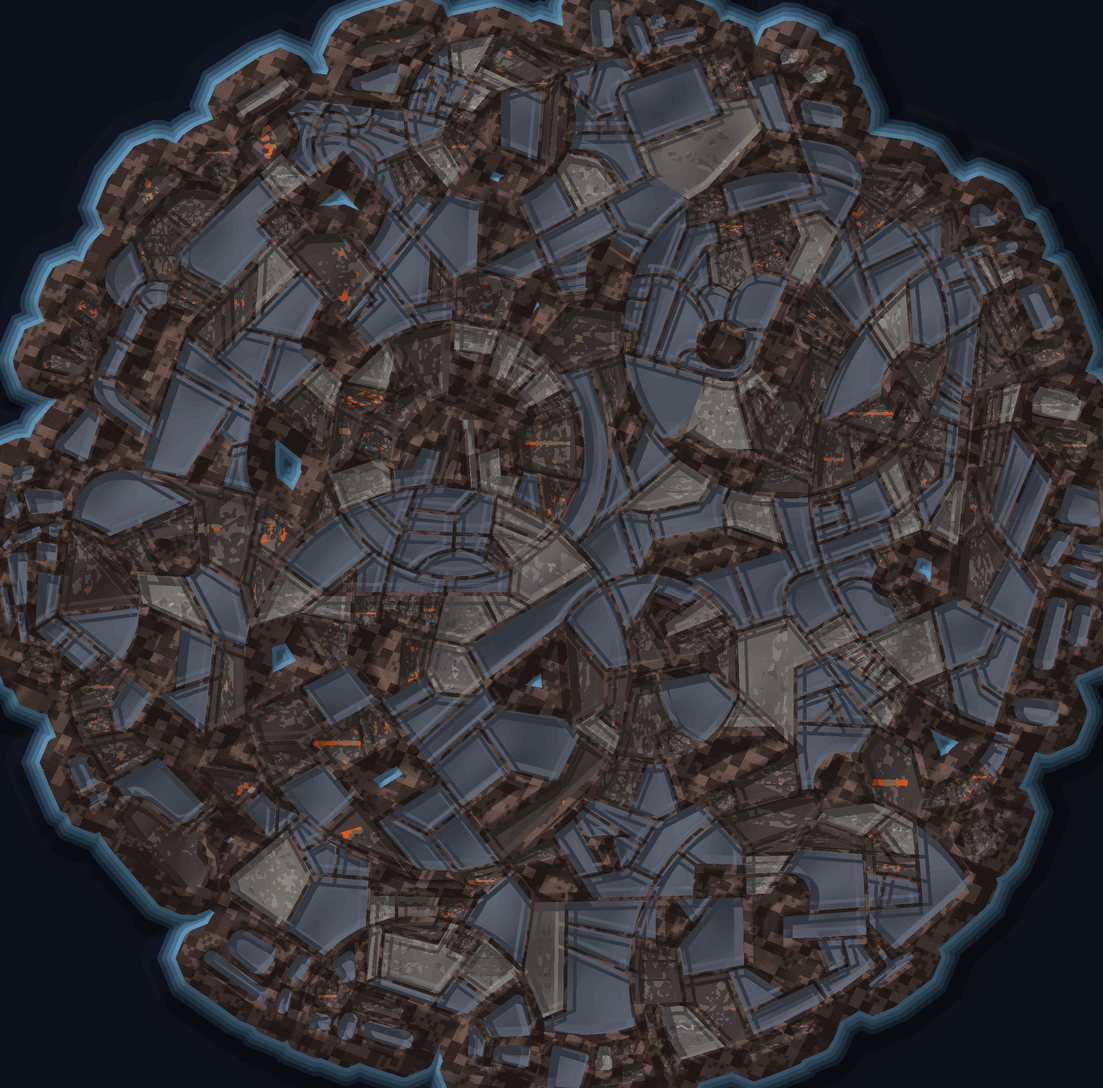
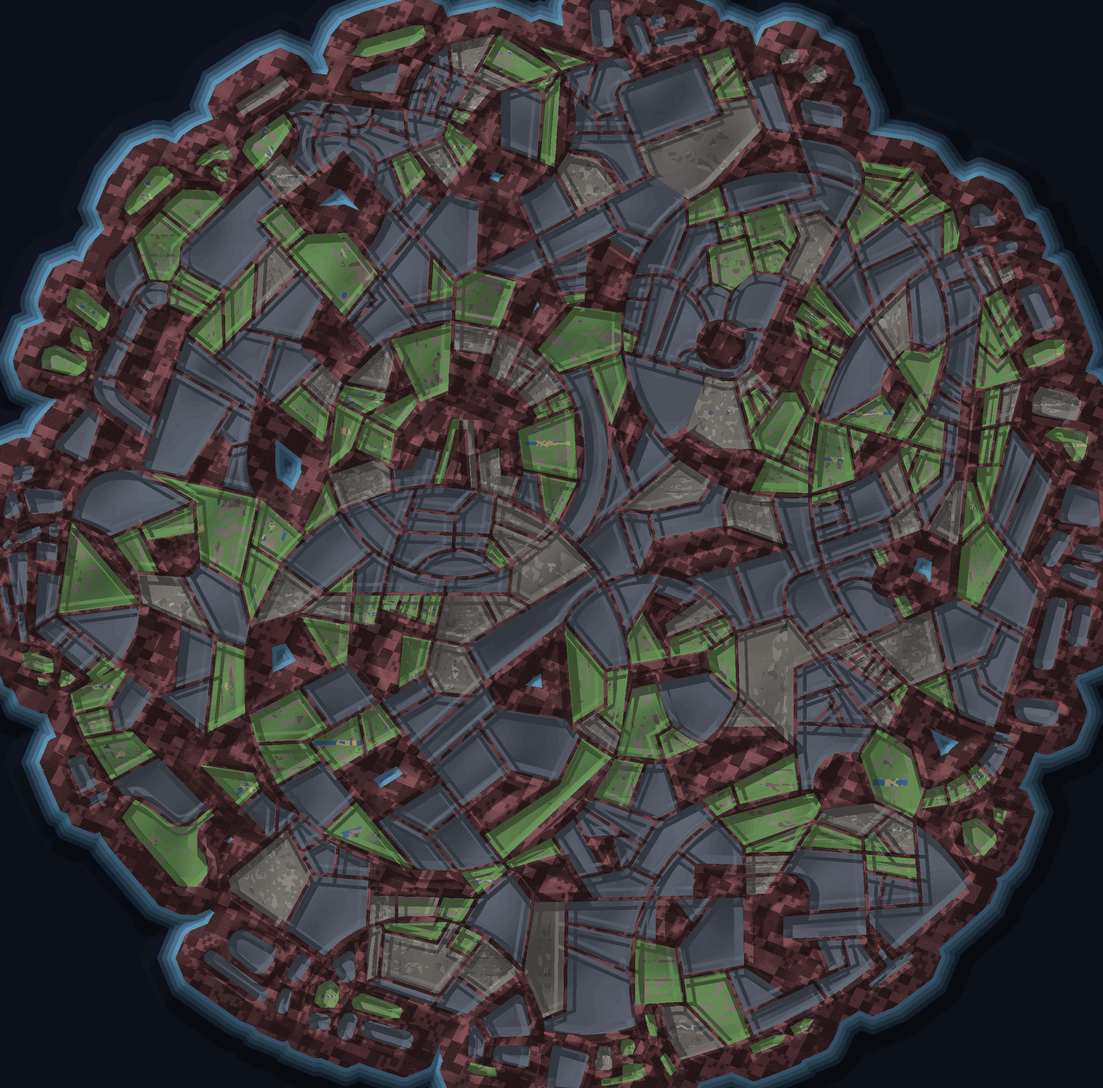
sky zones: identities locked + EMBER_CRYSTAL biome — Emberfall = red-gem crystal empire, never volcanic
Owner (2026-08-31): the three sky continents (the last without authored
fields) get locked identities BEFORE their fields are built —
docs/maps/SKY-ZONES-DESIGN.md:
- HS1 Aeropolis = the Castle in the Sky: abandoned leafy utopia, birds,
  overgrown Machu Picchu terraces, the one living airship dock.
- HS2 Emberfall = the Ember-Crystal Empire: LESS volcanic ('enough of that
  in the underworld; a volcano in the air makes no sense') — ember-RED
  CRYSTAL GEMS, fire power FROM the crystals, and the same crystals POWER
  the high-tech imperial war capital; 'red gems and dark scene walls, dark
  green military color'.
- HS3 Empyrea = the Frozen Pinnacle (SNOW already): white-gold ice city,
  highest, reached last; its hidden-tech deep canon stays under the ice.
War of the Sky Throne now reads on sight: fire-crystal empire vs frozen
pinnacle.

Wired for HS2: zone-registry biomeFamily VOLCANIC → EMBER_CRYSTAL
(+subtitle 'The Ember-Crystal Empire'), new 'ember' palette end-to-end —
schema PALETTES, BIOME_PALETTES [ember, ashen], thumb colors (dark
military-green ground, near-black cliffs, ROCK = ember-red crystal
188/52/48, water stays WATER — never lava), archetype mix (crystal-heavy
rock, dark scarps), preview3d tint, mosaic land color, worldfield fallback
map, LLM prompt note. UW zones keep VOLCANIC untouched.

Sweep 1,911 green, suites 6/6. HS2 mosaic re-bake running; the three sky
FIELDS remain to build (order: HS1 gateway first, then HS2+HS3 as the
[…]

diff --git a/map-service/maps/thumb.js b/map-service/maps/thumb.js
@@ -13,6 +13,7 @@ const PALETTE_RGB = {
   desert:   [[188, 162, 110], [120, 124, 62], [150, 128, 96], [70, 120, 140], [140, 116, 84], [204, 182, 136]],
   swamp:    [[74, 88, 58],  [44, 60, 38],  [96, 98, 86],   [46, 78, 92],  [80, 84, 66],   [128, 116, 84]],   // water = murky teal (was ground-green — deltas were invisible)
   ashen:    [[96, 94, 92],  [64, 66, 62],  [118, 114, 110], [70, 80, 92], [84, 80, 78],   [140, 132, 120]],
+  ember:    [[58, 66, 54],  [42, 52, 44],  [188, 52, 48],  [48, 70, 92],  [38, 40, 42],   [104, 98, 90]],   // HS2 Emberfall: dark military-green ground, near-black walls, ROCK = ember-red CRYSTAL (owner 2026-08-31: crystals, never lava — water stays water)
   sakura:   [[120, 140, 96], [172, 120, 140], [130, 124, 128], [96, 130, 160], [110, 102, 106], [168, 150, 130]],
 };
 const MARK = { GOLD_MINE: [230, 190, 60], WOOD_GROVE: [70, 150, 60], buildSpot: [225, 225, 235], atk: [220, 80, 70], def: [90, 140, 220], landmark: [242, 230, 190], lane: [210, 190, 140] };

diff --git a/map-service/maps/llm.js b/map-service/maps/llm.js
@@ -40,7 +40,7 @@ export function directivePrompt(budget = null) {
     "Reply with ONLY a single JSON object (no prose, no code fences) with these fields:\n" + lines.join("\n") +
     "\nPick the archetype/palette/landmark that best matches the directive's theme and mood. " +
     "High density = cluttered tactical map; waterLevel matters for river/marsh archetypes; " +
-    "volcanic palette renders water as lava." +
+    "volcanic palette renders water as lava; ember palette = dark military ground with ember-red CRYSTAL rocks (fire from gems, never lava)." +
     "\nOPTIONALLY add \"features\": [...] — up to 24 detail placements for precise composition. " +
     "Coords are normalized (-1..1, 0 = map center, +z = north); r/width are fractions of the map:\n" +
     '  {"kind":"riverBand","axis":"x"|"z","at":0.1-0.9,"width":0.02-0.3,"fords":1-3}  (axis "x" = river runs west-east across the map; "z" = runs south-north; "at" = where it sits, 0=south/west edge)\n' +

diff --git a/map-service/maps/schema.js b/map-service/maps/schema.js
@@ -4,7 +4,7 @@
 // boundary: any out-of-schema value from an LLM/user collapses to a safe default.
 
 export const ARCHETYPES = ["openSteppe", "forestMaze", "riverCrossing", "boxCanyon", "cliffTerraces", "marshCauseways", "ridgePasses"];
-export const PALETTES = ["verdant", "autumn", "volcanic", "tundra", "desert", "swamp", "ashen", "sakura"];
+export const PALETTES = ["verdant", "autumn", "volcanic", "tundra", "desert", "swamp", "ashen", "sakura", "ember"];   // ember = HS2 Emberfall fire-crystal ground (owner 2026-08-31: crystal gems, NOT magma)
 export const LANDMARKS = ["NONE", "STANDING_STONES", "RUINED_TOWER", "CRATER_LAKE", "ANCIENT_BRIDGE", "SHIPWRECK", "GIANT_SKULL", "OBELISK"];
 
 // terrain cell codes (u8 grid; walkability derives from these — grid is the truth, props are décor)

diff --git a/map-service/maps/mosaic.js b/map-service/maps/mosaic.js
@@ -64,7 +64,7 @@ const GREY = [72, 78, 88], GREY2 = [82, 88, 98];    // ungenerated fill (slight 
 // terrain board + POI markers). A little seeded speckle keeps big fills from looking dead-flat.
 const LAND = {
   TEMPERATE_FOREST: [70, 96, 62], TEMPERATE_GRASS: [96, 120, 72], SWAMP: [74, 88, 58],
-  VOLCANIC: [78, 62, 56], SNOW: [172, 180, 186], DESERT: [186, 162, 110], TUNDRA: [150, 160, 164],
+  VOLCANIC: [78, 62, 56], EMBER_CRYSTAL: [92, 58, 62], SNOW: [172, 180, 186], DESERT: [186, 162, 110], TUNDRA: [150, 160, 164],
 };
 export const landColor = (zone) => LAND[zoneBiomeFamily(zone)] || [86, 110, 74];
 const speckle = (base, x, y) => { const h = (((x * 73856093) ^ (y * 19349663)) >>> 0) % 17 - 8; return [Math.max(0, base[0] + h), Math.max(0, base[1] + h), Math.max(0, base[2] + h)]; };

diff --git a/map-service/maps/worldfield.js b/map-service/maps/worldfield.js
@@ -402,7 +402,7 @@ export function zoneBiomeFamily(zoneId) {
   if (!_zoneBiome) {
     _zoneBiome = new Map([["CGI", "TEMPERATE_GRASS"], ["KOL", "TEMPERATE_GRASS"], ["HUB", "TEMPERATE_GRASS"],
       ["ENT", "TEMPERATE_GRASS"], ["BUS", "SWAMP"], ["EDU", "TEMPERATE_FOREST"], ["HS1", "TEMPERATE_GRASS"],
-      ["HS2", "VOLCANIC"], ["HS3", "SNOW"], ["UW1", "SWAMP"], ["UW2", "VOLCANIC"], ["UW3", "VOLCANIC"]]);
+      ["HS2", "EMBER_CRYSTAL"], ["HS3", "SNOW"], ["UW1", "SWAMP"], ["UW2", "VOLCANIC"], ["UW3", "VOLCANIC"]]);
     try {
       const reg = JSON.parse(fs.readFileSync(path.join(dataRoot(), "zone-registry.json"), "utf8"));
       for (const z of reg.zones || []) if (z.zoneId && z.biomeFamily) _zoneBiome.set(String(z.zoneId), String(z.biomeFamily));

diff --git a/map-service/maps/preview3d.html b/map-service/maps/preview3d.html
@@ -80,7 +80,7 @@ const rng=()=>{_s=(_s+0x6D2B79F5)>>>0;let t=_s;t=Math.imul(t^(t>>>15),t|1);t^=t+
 const R=(x,y)=>x+(y-x)*rng();
 
 // per-palette ground tint (legacy fallback only — parity mode gets the real biome material set)
-const TINT={verdant:0xffffff,autumn:0xd9b978,volcanic:0x6a5a52,tundra:0xcdd6da,desert:0xd8c28a,swamp:0x8fa06a,sakura:0xe6c8d6}[p.palette]||0xffffff;
+const TINT={verdant:0xffffff,autumn:0xd9b978,volcanic:0x6a5a52,tundra:0xcdd6da,desert:0xd8c28a,swamp:0x8fa06a,sakura:0xe6c8d6,ember:0x9a6a66}[p.palette]||0xffffff;   // ember = slate + red-crystal cast (never lava)
 
 const scene=new THREE.Scene();
 let cam=new THREE.PerspectiveCamera(parity?50:45,innerWidth/innerHeight,1,S*6);

diff --git a/map-service/maps/archetypes.js b/map-service/maps/archetypes.js
@@ -68,6 +68,7 @@ const MIX = {
   sakura:   { forest: 0.80, rock: 0.12, water: 0.08, cliff: 0.00 },
   swamp:    { forest: 0.46, rock: 0.06, water: 0.48, cliff: 0.00 },
   volcanic: { forest: 0.06, rock: 0.56, water: 0.22, cliff: 0.16 },   // "water" renders as lava
+  ember:    { forest: 0.10, rock: 0.52, water: 0.14, cliff: 0.24 },   // HS2: rock = ember-red crystal outcrops, dark scarps — no lava in the sky
   ashen:    { forest: 0.14, rock: 0.50, water: 0.06, cliff: 0.30 },
   tundra:   { forest: 0.30, rock: 0.40, water: 0.08, cliff: 0.22 },
   desert:   { forest: 0.34, rock: 0.58, water: 0.08, cliff: 0.00 },   // brush + rock, rare oasis

diff --git a/map-service/maps/generate.js b/map-service/maps/generate.js
@@ -61,6 +61,10 @@ const BIOME_PALETTES = {
   DESERT: ["desert"],
   SNOW: ["tundra", "ashen"],
   VOLCANIC: ["volcanic", "ashen"],
+  // HS2 Emberfall (owner 2026-08-31: "less volcanic — no volcano in the air; ember-red CRYSTAL
+  // GEMS, fire power FROM the crystals" — the same crystals power the imperial tech): dark slate
+  // ground shot through with glowing ember crystal; ashen variant keeps ridge coherence.
+  EMBER_CRYSTAL: ["ember", "ashen"],
   SWAMP: ["swamp"],
 };
 export function biomePalette(biome, seed = 0) {

diff --git a/docs/maps/SKY-ZONES-DESIGN.md b/docs/maps/SKY-ZONES-DESIGN.md
@@ -1,0 +1,81 @@
+# THE SKY ZONES — HS1 / HS2 / HS3 DESIGN (owner-directed 2026-08-31)
+
+**Status:** the three sky continents have l3 parcel data (~13.7–14.1K parcels each) and baked
+biome-tint mosaics, but **NO authored macro fields** (`data/world-terrain/` has no HS1/HS2/HS3 —
+nor UW1) — no designed coastlines, roads, cities, castles, or heroParcels. They are the last
+continents without Arcadia-grade detail. This doc locks their identities BEFORE the fields are
+built, so nothing generic ships. Owner rule: **their maps must look DISTINCT.**
+
+## The three identities (owner-locked 2026-08-31)
+
+### HS1 · AEROPOLIS — the Castle in the Sky
+> owner: "castle in the sky.. utopia, birds, abandoned, leafy"
+
+The Gate to Heaven (all surface airships land here FIRST — zoneLinks canon). An **abandoned
+utopia**: Machu Picchu / Cusco terraced citadel (existing canon), now **overgrown** — vines
+swallowing white stone, hanging gardens gone wild, bird flocks as the living weather, empty
+plazas, the one working airship dock as the only maintained thing on the isle. Mood: serene,
+melancholy, green-on-white. Palette: verdant/overgrown over pale stone (biomeFamily
+TEMPERATE_GRASS stays; the field pass supplies the garden-ruin look). Landmark spine: the
+terraced ascent → the summit citadel → the DOCK GATEHOUSE (`zoneLinks` anchor).
+
+### HS2 · EMBERFALL — the Ember-Crystal Empire  ✅ wired in code
+> owner: "make it LESS VOLCANIC — we got enough of that in the underworld and a volcano in the
+> air makes no sense. Ember like crystal gems — ember-red crystals, still fire power FROM the
+> crystals… cross that with the high tech: the same fire-crystal power runs the tech imperial…
+> red gems and dark scene walls, dark green military color."
+
+The fallen angels' **war capital**: a high-tech IMPERIAL city **powered by ember-red fire
+crystals** — crystal reactors, gem-fed forges, floodlit military districts. NOT volcanic: no
+magma, no lava water, no ash cones. The ground is dark military green-grey; walls and scenery
+near-black; the light comes from **red crystal outcrops** (the ROCK class renders as ember
+crystal) and the glow of crystal-powered machinery. Ember-*fall*: the corruption that sank now
+risen, industrialized.
+**Shipped today:** `biomeFamily: EMBER_CRYSTAL` (zone-registry; subtitle → "The Ember-Crystal
+Empire"), new **`ember` palette** through the whole chain — schema PALETTES, BIOME_PALETTES
+(`["ember","ashen"]`), thumb colors (dark military-green OPEN 58/66/54 · near-black CLIFF ·
+**ROCK = ember red 188/52/48** · water stays WATER, never lava), archetype mix (crystal-heavy
+rock, dark scarps), preview3d tint, mosaic land color, worldfield fallback, LLM prompt note.
+
+### HS3 · EMPYREA — the Frozen Pinnacle
+> owner: "ice and frozen for one (the highest)"
+
+The rightful summit, reached last. **Ice and frozen** — biomeFamily SNOW (already set): a
+white-gold divine city above the weather line, glacial terraces, frozen serenity. Its deep-canon
+secret (Empyrea HIDES ancient technology — `SKY_EXPANSION.md` §3) stays **beneath the ice**:
+the surface reads pure and cold; at most the faintest wrongness in the vaults. Never surfaced
+in-game.
+
+**The War of the Sky Throne (HS2↔HS3, `warFront:true`)** now reads perfectly on sight: the
+**fire-crystal empire besieging the frozen pinnacle** — red glow against white ice, the two
+palettes as the two armies.
+
+## Distinctness check (the point of the exercise)
+
+| | ground | light source | structures | weather/life |
+|---|---|---|---|---|
+| HS1 | overgrown green on pale stone | sun, open sky | abandoned terraces, ONE living dock | bird flocks |
+| HS2 | dark military green-grey | **red crystal glow** | black imperial walls, forges, war machine | ember sparks, floodlight |
+| HS3 | ice white-gold | cold sky-light on ice | divine frozen city | snow stillness |
+
+No two share a dominant hue, light source, or mood; none reuses a surface or UW look (lava
+stays in the underworld — owner rule).
+
+## What building each field requires (the Arcadia recipe, sky edition)
+
+1. **Void-rim coastline** — floating isles: the "coast" is the EDGE OF THE SKY (rim cliffs into
+   void; the frontier-ridge rule becomes rim-ridge). Deep "water" semantics: HS zones may use
+   water bodies as cloud-lakes/ice-melt; approaches/naval layers apply where bodies exist.
+2. **Feature networks** per identity: HS1 terraced switchbacks + garden watercourses; HS2
+   crystal fields (ember ROCK belts), military grid roads, reactor/forge POIs; HS3 glacial
+   terraces, frozen rivers, processional ways.
+3. **Castle ladder + heroParcels[]** per canon 22 (EPIC=PALACE …): HS1 summit citadel
+   (PALACE style key `aeropolis_terrace`), HS2 imperial war-palace (`ember_bastion`), HS3
+   ice-palace (`empyrean_ice`) — style keys to add to PALACE_STYLES when the fields land.
+4. **zoneLinks anchors**: HS1 dock gatehouse (surface→HS1), the HS1→HS2 and HS1→HS3 branch
+   gates, and the **war-front geography** between HS2 and HS3 (contested link, canon).
+5. Mosaic + heightfield bakes after each field lands (same pipeline as the eight built zones).
+
+**Build order (proposal):** HS1 first (it's the gateway every player sees first), then HS2+HS3
+together (the war front needs both sides designed as a pair). UW1 Ironhold's missing field is
+queued behind them.
